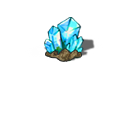
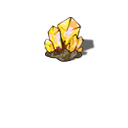
image des ressources

Changed region(s): [[0.3438, 0.125, 0.6562, 0.4375]]

diff --git a/monitor/client/js/imgLoader.js b/monitor/client/js/imgLoader.js
@@ -22,6 +22,21 @@ function ImgLoader() {
 		14 : {name: "linemate_small", img: new Image()},
 		15 : {name: "linemate_medium", img: new Image()},
 		16 : {name: "linemate_large", img: new Image()},
+		17 : {name: "deraumere_small", img: new Image()},
+		18 : {name: "deraumere_medium", img: new Image()},
+		19 : {name: "deraumere_large", img: new Image()},
+		20 : {name: "sibur_small", img: new Image()},
+		21 : {name: "sibur_medium", img: new Image()},
+		22 : {name: "sibur_large", img: new Image()},
+		23 : {name: "mendiane_small", img: new Image()},
+		24 : {name: "mendiane_medium", img: new Image()},
+		25 : {name: "mendiane_large", img: new Image()},
+		26 : {name: "phiras_small", img: new Image()},
+		27 : {name: "phiras_medium", img: new Image()},
+		28 : {name: "phiras_large", img: new Image()},
+		29 : {name: "thystame_small", img: new Image()},
+		30 : {name: "thystame_medium", img: new Image()},
+		31 : {name: "thystame_large", img: new Image()},
 		999 : {name: "undefined", img: new Image()}
 	};
 	
